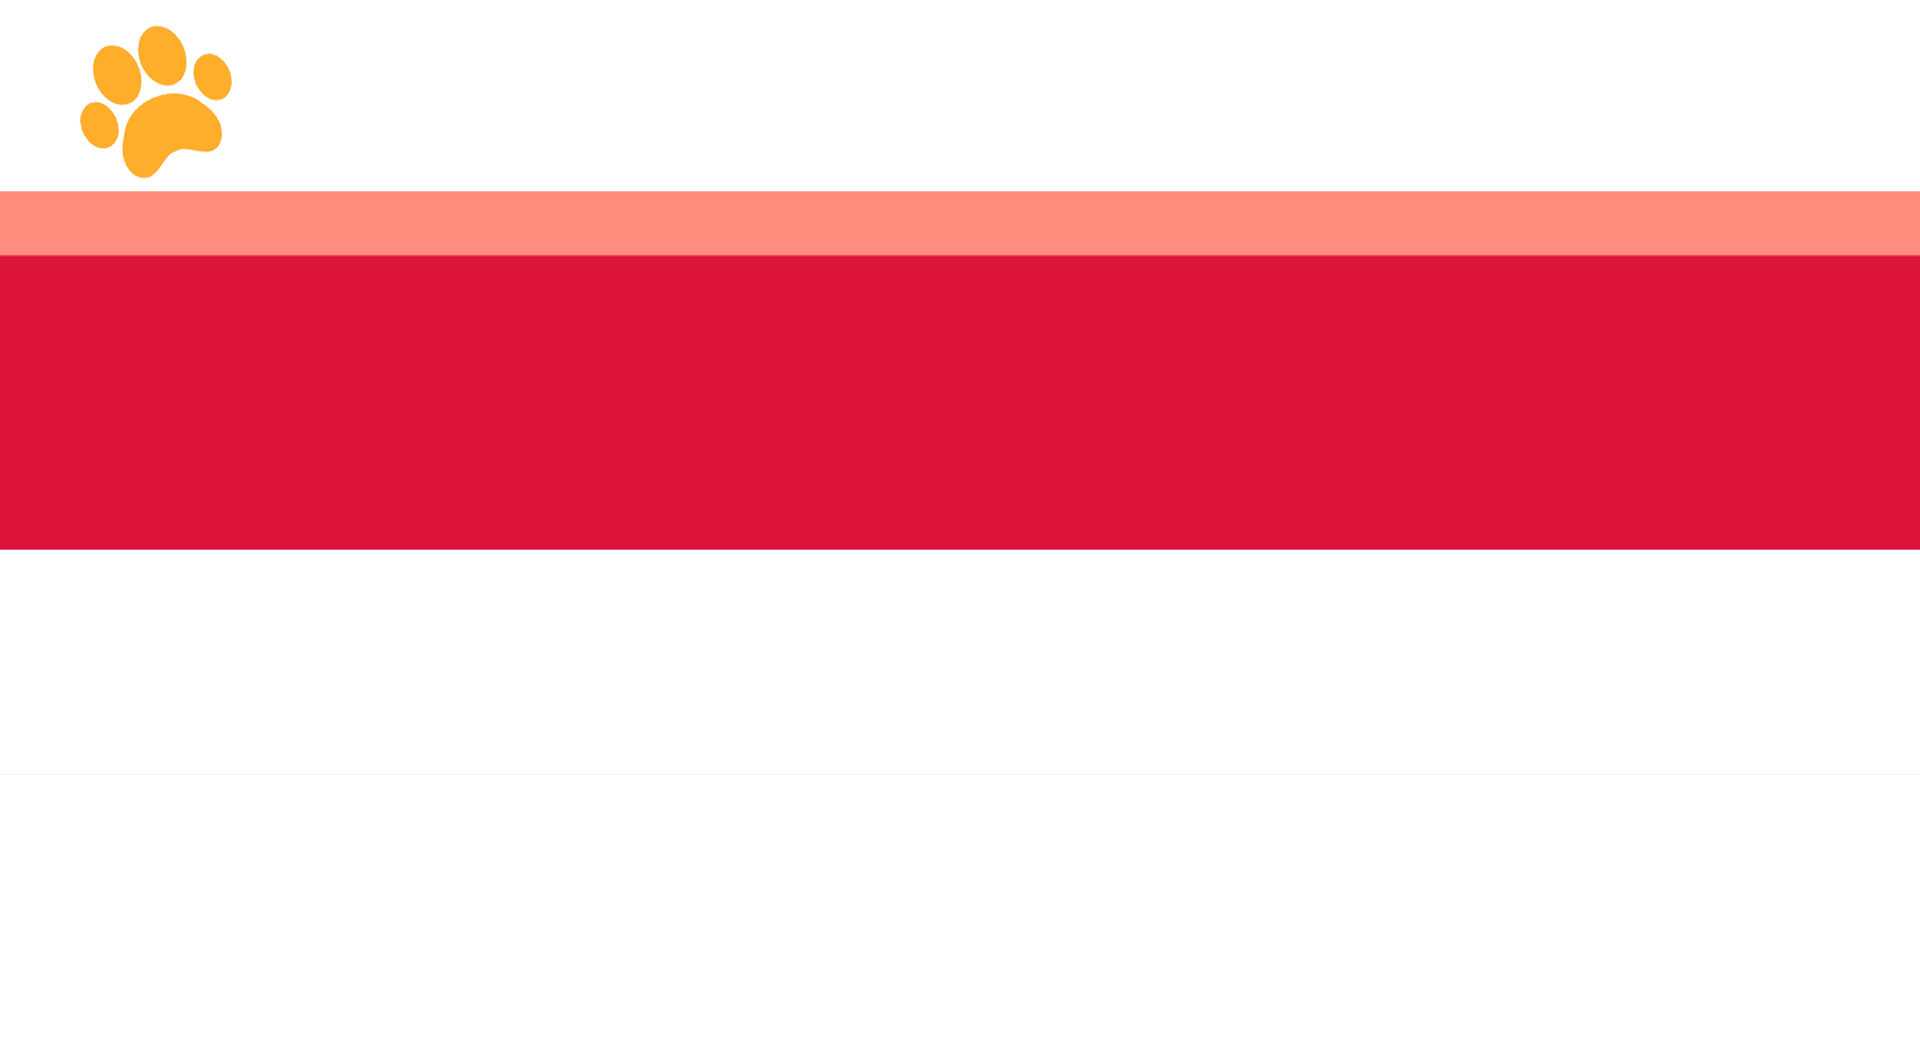
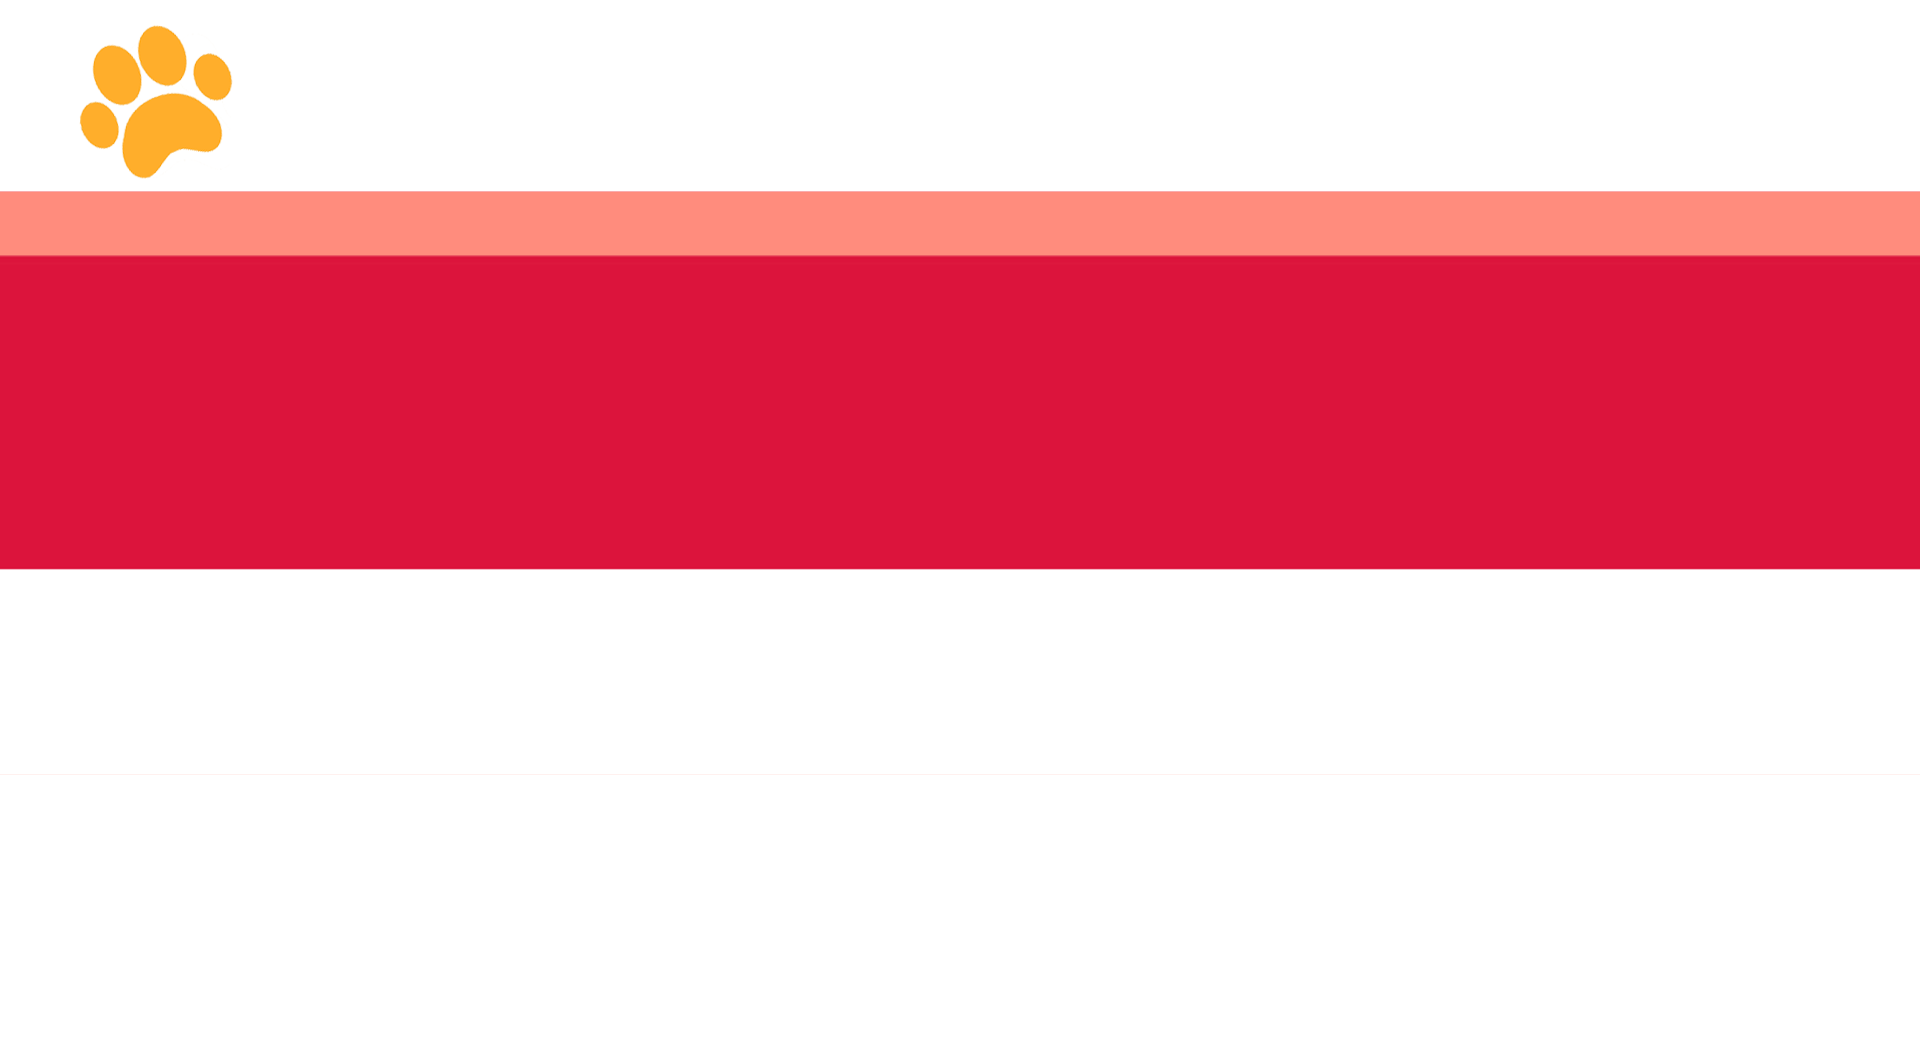
adding navbar

Changed region(s): [[0.0, 0.4991, 1.0, 0.5614]]

diff --git a/style.css b/style.css
@@ -4,13 +4,14 @@ body{
     font-family: sans-serif;
 }
 .top-banner{
-    height: 600px;
-    background-image: url('img/banner03.png');
+    height: 200px;
+    background-image: url('img/phnBanner01.png');
     background-repeat: no-repeat;
     background-size: cover;
 }
 .top-text h1{
-    font-size: 50px;
+    font-size: 30px;
+    margin: 30px 0 0 10px;
     color: rgb(255, 166, 0);
 }
 .top-text h1 span{
@@ -18,36 +19,35 @@ body{
 }
 .top-text p{
     text-align: justify;
-    line-height: 30px;
+    line-height: 20px;
     color: white;
 }
 .top-banner .top-text{
-    padding-top:30px ;
+    padding-top:5px ;
 }
-.top-banner ul li{
-    float: left;
-    margin: 0 70px 20px -20px;
-    color: white;
+.top-banner ul{
+    display: none;
 }
 .half-length{
-    width: 41%;
+    width: 42%;
     float: left;
-    margin-left: 5%;
-    padding-left: 2%;
+    margin-left: 20px;
+    padding-left: 10px;
 }
 .half-length img{
     width: 100%;
 }
 .info-button{
     text-decoration: none;
-    font-weight: 700;
+    /* font-size: 10px; */
+    /* font-weight: 700; */
 }
 .box {
     text-decoration: none;
 	background: linear-gradient(to right, rgb(255, 255, 255), rgb(255, 255, 255));
     color: crimson;
-    padding: 10px 30px;
-	--width: 250px;
+    padding: 5px 10px;
+	--width: 100px;
 	--height: calc(var(--width) / 3);
 	width: var(--width);
 	height: var(--height);
@@ -171,5 +171,223 @@ body{
     margin-left: 10px;
     padding-left: 10px;
     border: 1px solid gray ;
+}
+
+@media only screen and (min-width:1000px){
+    .navbar {
+        overflow: hidden;
+        background-color: rgb(220, 20, 60);
+        position: fixed;
+        top: 0;
+        width: 100%;
+        height: 60px;
+        border-bottom: 2px solid rgb(240, 240, 240);
+      }
+      .navbar .navbar-img{
+          width: 45.8%;
+          float: left;
+          padding: 5px 0 5px 80px;
+      }
+      .navbar-img img{
+          width: 10%;
+      }
+      
+      .navbar a {
+        float: left;
+        display: block;
+        color: #ffffff;
+        font-weight: 700;
+        text-align: center;
+        padding: 20px 50px;
+        text-decoration: none;
+        font-size: 17px;
+      }
+      
+      .navbar a:hover {
+        background: rgb(240, 240, 240);
+        color:  crimson;
+      }
+
+
+
+
+
+
+    .top-banner{
+        margin-top: 100px ;
+        height: 600px;
+        background-image: url('img/banner03.png');
+        background-repeat: no-repeat;
+        background-size: cover;
+    }
+    .top-text h1{
+        margin: 40px 0 0 -1px;
+        font-size: 50px;
+        color: rgb(255, 166, 0);
+    }
+    .top-text h1 span{
+        color: white;
+    }
+    .top-text p{
+        margin: 100px 0 20px 0;
+        text-align: justify;
+        line-height: 30px;
+        color: white;
+    }
+    .top-banner .top-text{
+        padding-top:30px ;
+    }
+    .top-banner ul{
+        display: block;
+    }
+    .top-banner ul li{
+        float: left;
+        font-size: 18px;
+        margin: 25px 70px 20px -20px;
+        color: white;
+    }
+    .half-length{
+        width: 41%;
+        float: left;
+        margin-left: 5%;
+        padding-left: 2%;
+    }
+    .half-length img{
+        width: 100%;
+    }
+    .info-button{
+        text-decoration: none;
+        font-weight: 700;
+    }
+    .box {
+        text-decoration: none;
+        background: linear-gradient(to right, rgb(255, 255, 255), rgb(255, 255, 255));
+        color: crimson;
+        padding: 10px 30px;
+        --width: 250px;
+        --height: calc(var(--width) / 3);
+        width: var(--width);
+        height: var(--height);
+        text-align: center;
+        line-height: var(--height);
+        font-size: calc(var(--height) / 2.5);
+        letter-spacing: 0.2em;
+        border: 1px solid crimson;
+        border-radius: 2em;
+        transform: perspective(500px) rotateY(-15deg);
+        text-shadow: 6px 3px 2px rgba(0, 0, 0, 0.2);
+        box-shadow: 2px 0 0 5px rgba(0, 0, 0, 0.2);
+        transition: 0.5s;
+        position: relative;
+        overflow: hidden;
+    }
+    
+    .box:hover {
+        transform: perspective(500px) rotateY(15deg);
+        text-shadow: -6px 3px 2px rgba(0, 0, 0, 0.2);
+        box-shadow: -2px 0 0 5px rgba(0, 0, 0, 0.2);
+    }
+    
+    .box::before {
+        content: '';
+        position: absolute;
+        width: 100%;
+        height: 100%;
+        background: linear-gradient(to right, transparent, white, transparent);
+        left: -100%;
+        transition: 0.5s;
+    }
+    .box:hover::before {
+        left: 100%;
+    }
+    .middle-banner{
+        height: 600px;
+        background-image: url('img/banner05.png');
+        background-repeat: no-repeat;
+        background-size: cover;
+    }
+    .middle-banner img{
+        width: 80%;
+        border-radius: 50%;
+    }
+    .middle-banner .top-text{
+        padding-top:10px ;
+    }
+    .middle-banner ul li{
+        float: left;
+        margin: 0 70px 20px -20px;
+        color: black;
+    }
+    .middle-banner p{
+        color: black;
+    }
+    .middle-banner .box{
+        color: black;
+        border: 1px solid black;
+    }
+    .full-last-banner{
+        height: 750px;
+    }
+    .last-banner{
+        height: 100%;
+    }
+    .full-last-banner .photo-gallery-text{
+        font-size: 50px;
+        text-align: center;
+        padding: 30px 0;
+        color: rgb(255, 166, 0);
+    }
+    .last-banner .one-third-width{
+        width: 25%;
+        height: 60%;
+        float: left;
+        margin-left: 5%;
+        padding-left: 2%;
+    }
+    .last-banner .one-third-width img{
+        width: 100%;
+        height: 55%;
+        border-top-left-radius: 20px;
+        border-top-right-radius: 20px;
+    }
+    .last-banner-text{
+        height: 50%;
+        margin-top: -10px;
+        padding: 20px;
+        color: rgb(81, 81, 81);
+        border: 2px solid gray;
+        border-bottom-right-radius: 20px;
+        border-bottom-left-radius: 20px;
+        text-align: justify;
+        line-height: 25px;
+    }
+    .see-more-button{
+        font-weight: 700;
+        text-decoration: none;
+        color: rgb(255, 166, 0);
+    }
+    .footer{
+        height: 300px;
+        background: rgb(255, 166, 0);
+    }
+    .footer-container{
+        width: 80%;
+        display: flex;
+        flex-direction: row;
+        margin: 0 auto;
+    }
+    .footer-text{
+        width: 22%;
+        margin-left: 10px;
+        padding-left: 10px;
+        border: 1px solid gray ;
+    }
+    .footer-post{
+        width: 30%;
+        text-align: center;
+        margin-left: 10px;
+        padding-left: 10px;
+        border: 1px solid gray ;
+    }
 
 }

diff --git a/index.html b/index.html
@@ -8,6 +8,16 @@
     <link rel="stylesheet" href="style.css">
 </head>
 <body>
+    <div class="navbar">
+        <div class="navbar-img">
+            <img src="img/dogpedia-logo-3d.png" alt="">
+        </div>
+        <a href="#home">Home</a>
+        <a href="#news">News</a>
+        <a href="#contact">Contact</a>
+        <a href="#contact">About us</a>
+        <a style="font-size: 25px;" href="#contact">≡</a>
+    </div>
     <section class="top-banner">
             <div class="half-length top-text">
                 <h1><span>Go</span>lden Retriever</h1>
@@ -15,7 +25,7 @@
                     <li>Dog Breeds</li>
                     <li>Guide Dog</li>
                     <li>Good Pet</li>
-                </ul><br><br>
+                </ul>
                 <p>The Golden Retriever is a medium-large gun dog that was bred to retrieve shot waterfowl, such as ducks and upland game birds, during hunting and shooting parties. The name "retriever" refers to the breed's ability to retrieve shot game undamaged due to their soft mouth. Golden retrievers have an instinctive love of water, and are easy to train to basic or advanced obedience standards.</p>
                 <a class="info-button" href="https://en.wikipedia.org/wiki/Golden_Retriever" target="_blank"><div class="box">More Info</div></a>
             </div>
